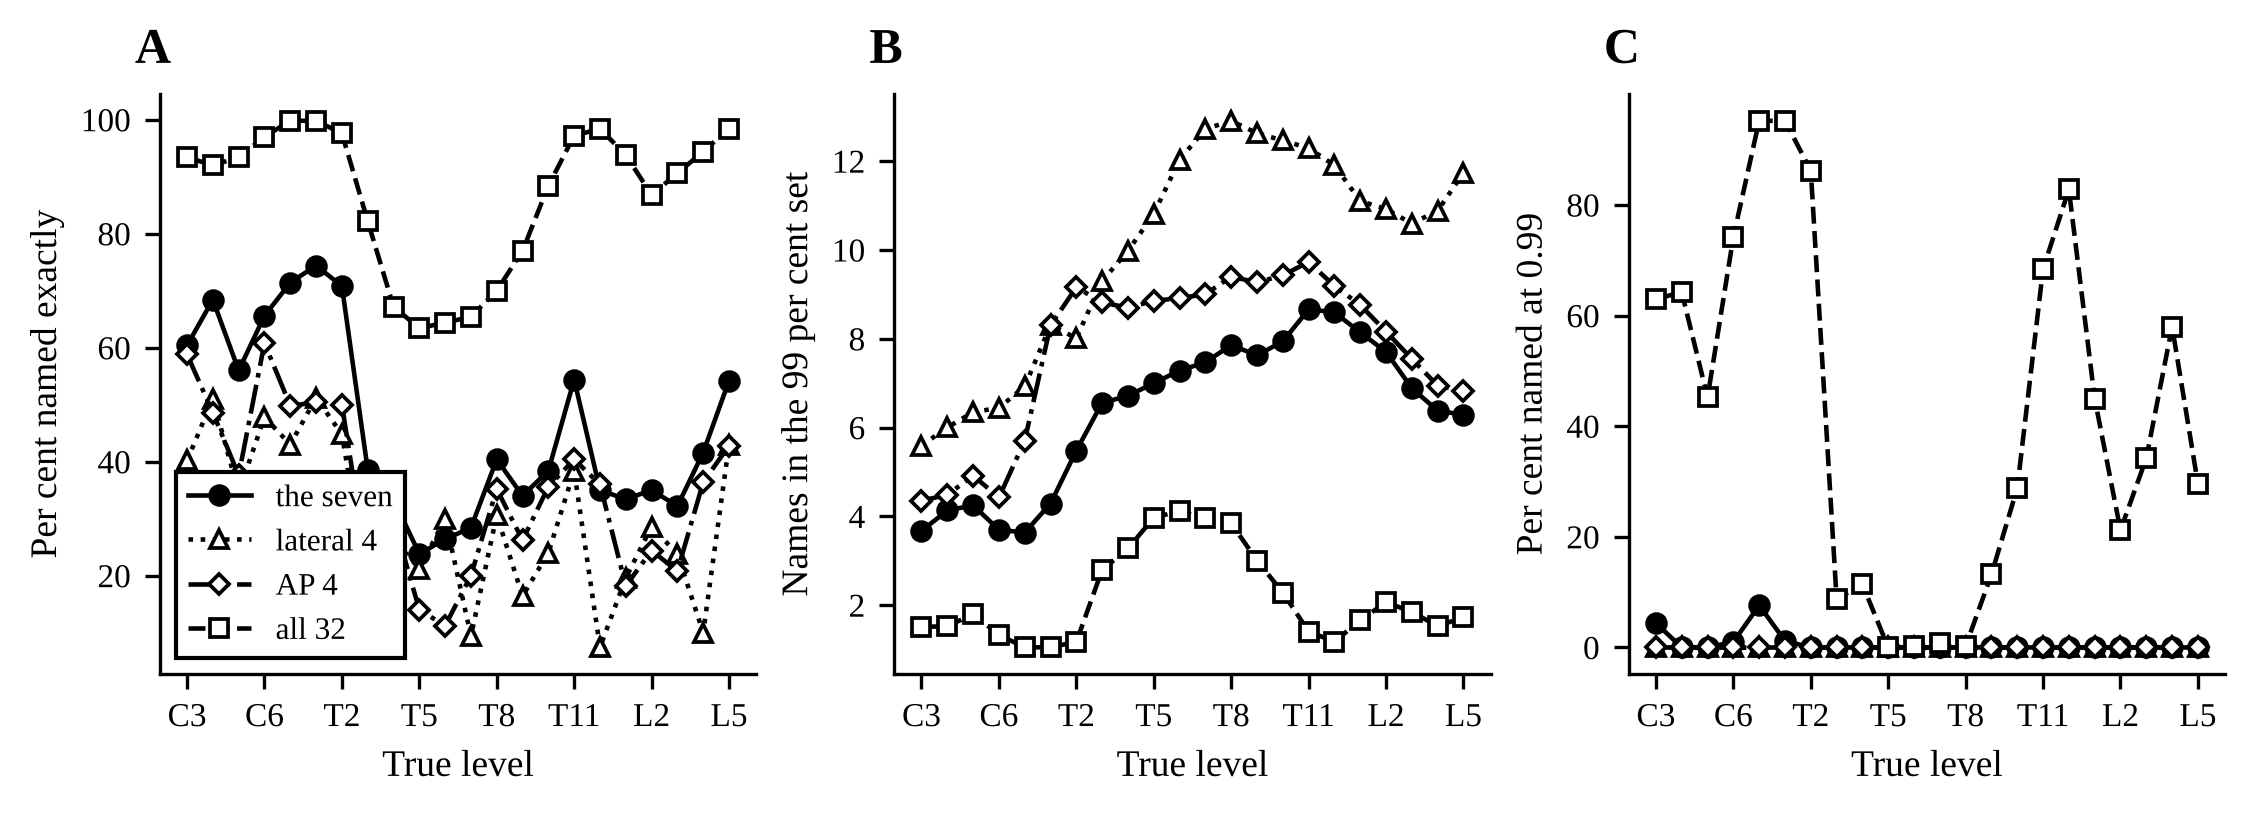
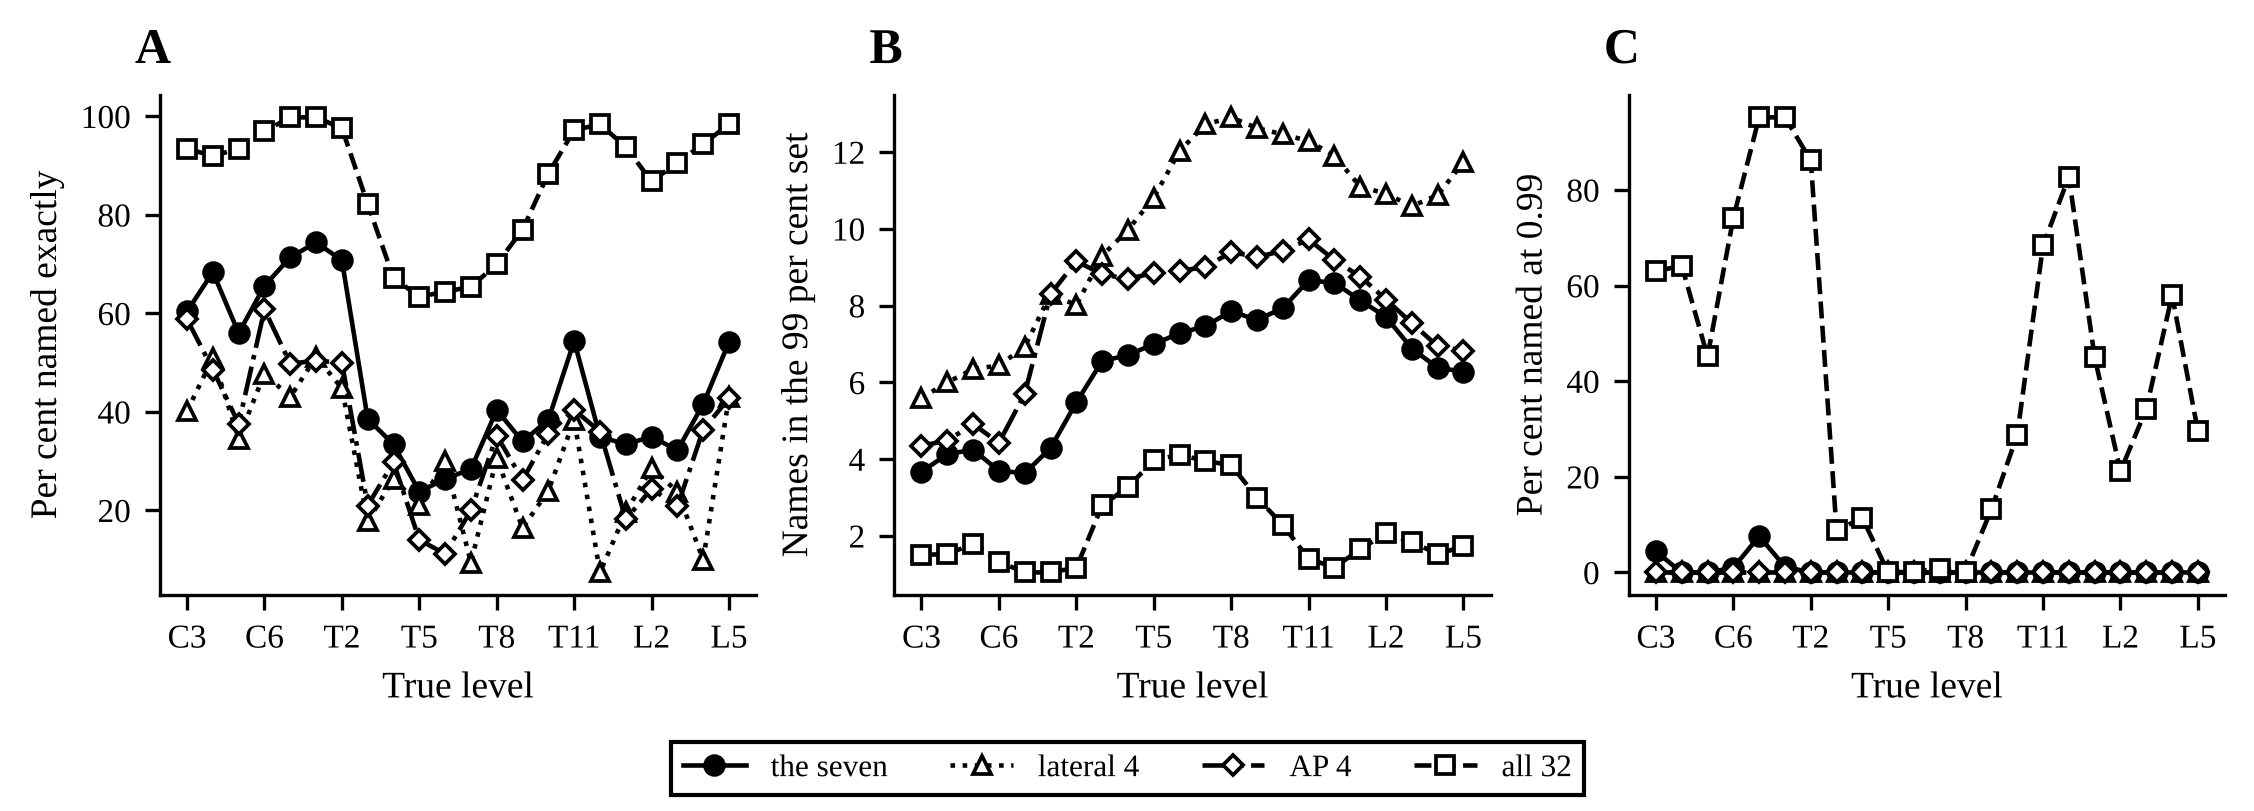
The one-vertebra record made again from the reviewed code, its figures redrawn, the README and TODO brought up to date
The record is made from commit 74dfa05, the review's fixes, in 6 minutes on
3 processes, which it now carries in its command and a field; its rows,
levels, claims and confusion counts are the first record's, made from
67e400e, number for number, so every number the README quotes stands and
`check` passes on the tables as they were. The levels and size figures are
redrawn with their legends outside the axes, and the curve record's
FIGURES.md carries curve.py's new hash. The README's Tests list gains the
evaluation's bullet, 29 tests, and TODO.md says where the evaluation landed.

Claude-Session: https://claude.ai/code/session_01LGjGkrqirqqwNkUQYrbj3h

diff --git a/schwingcheck/README.md b/schwingcheck/README.md
@@ -944,7 +944,7 @@ PYTHONPATH=. python schwingcheck/examples/lone_body_check.py   # how far a lone 
 
 **The coarse claims.** A lone body that cannot be named may still say on which side of a border it lies. Each of the coarse study's six claims (coarse/study.py) is the posterior mass on the names it holds, decided when that mass reaches 0.99 either way, as coarse.score_claims decides it. An L6 is below every border, and a T13, between T12 and L1, is below C7 and T5, not at or above T6, not below T12 nor below L2, and within T11 to L2.
 
-**The record.** one_body.json in [records/one-body-2026-10-29/](../records/one-body-2026-10-29/figures/FIGURES.md), with the command, the seeds, the machine, the versions, the digests and the git state taken when it began (`made_by`), was made from commit 67e400e on 29 October 2026, on a cloud machine with 4 CPUs in Python 3.12.3, its log evidence in 6 minutes on 3 processes while another job ran; nothing changed while it ran. The data axis at one body is chain_study's own record, axis.json, read at one body: its tables re-estimated from 12 to 2,000 people, on its 200 fields a cell ([The data axis at one body](#the-data-axis-at-one-body)).
+**The record.** one_body.json in [records/one-body-2026-10-29/](../records/one-body-2026-10-29/figures/FIGURES.md), with the command, the seeds, the machine, the versions, the digests and the git state taken when it began (`made_by`), was made from commit 74dfa05 on 29 October 2026, after the review's fixes, on a cloud machine with 4 CPUs in Python 3.12.3, its log evidence in 6 minutes on 3 processes (the command and a field of the record say so) with other work sharing the machine; nothing changed while it ran, and its rows, levels, claims and confusion counts are the first record's, made from 67e400e before the review, number for number. The data axis at one body is chain_study's own record, axis.json, read at one body: its tables re-estimated from 12 to 2,000 people, on its 200 fields a cell ([The data axis at one body](#the-data-axis-at-one-body)).
 
 Every number below comes from synthetic columns drawn from Panjabi's tables, where the generator is the truth; nothing here is a patient. As in the chain's study, the fields are drawn type by type, while the chain's posterior is calibrated over the mix its type weights describe.
 
@@ -1179,6 +1179,7 @@ The same, with the seven SPINEPS measures.
 - `test_schwingcheck_chain.py` (11): the chain's start and rows are laws, block diagonal by type, and its support paths every path of positive probability, summing to one; with one step and the typical type alone its prior is step d's and its posterior rule.name's within 1e-12; with uniform steps every fitting pattern and place is equally likely, counted by brute force; forward-backward equals enumeration; the extended table is the generator's to the bit; path_logev is a dense normal from scipy integrated on the same nodes, within 1e-9 on six paths of three bodies; the sum along the paths' shared beginnings is path_logev's within 1e-9, on whole fields and on fields with values not read, of every type, at 1, 3 and 5 bodies and two subsets of the seven at once; model (b)'s density given the size is the dense normal summed over the paths within 1e-10, model (a)'s its emissions enumerated given the offsets with a finite gradient, and recover() draws the middle body's level as often as the posterior says.
 - `test_schwingcheck_chain_study.py` (36): a name within one level is read on the half-step scale, so a T13 is within one of T12 and of L1 and an L6 of L5 alone; the data axis's tables are the build-up study's to the bit, and the printed table scores on the axis as `run` scores it; a quick run, axis and speed give every row, the main and axis tables read the rows they name, at one body the consecutive and the gaps rules are one rule, the weights' rows carry the papers' weights on the stated chain's fields and are the chain's posterior at those weights computed again, the claims and speed tables' cells are their rows', every table takes its labels from its record, each measure set is timed as a rule cut to it, and every record names the code it was made by; a quick `pymc` gives every row its table reads with each field's own within, holds each model to the cut rule's exact posterior on `run`'s fields and names pymc-extras' version; a field passes the naming test only where it passes all three of the naming model's NUTS test's checks, and a record that keeps no field's own within is read only where every field is within; a rule cut to the seven names as the rule for all 32 with the rest masked out, within 1e-12; the axis's rows are the same to the bit whatever order its jobs finish in; load_loops, first in a fresh process, leaves every pool at one thread while the speed's work runs inside the limit and compiles every layout the speed times, and without it a pool escapes the limit; `run`, `axis` on two processes, `speed` and `pymc`, each alone in a fresh process, record every pool at one thread, and each of the four fails when its command no longer compiles before the limit; `check` finds a table stale, missing, written twice, followed by rows of its own or by text with no blank line, or with no record, and records that do not read the same columns, fields a column and seeds; the committed records' tables are this README's, they hold 9 bodies, one commit, unchanged while they ran, made the four, they read the same fields, the speed timed each measure set on its own measures with every pool at one thread, and the PyMC record ran with every pool at one thread against chain.py's exact posteriors on `run`'s fields.
 - `test_schwingcheck_chain_figures.py` (7): the build-up study's figures and the chain's are drawn in one format, figures.py's; the chain's four figures drawn twice are the same files; every caption is under sixty words; each CSV holds the records' numbers, and a share right on fewer than 50 answers is not drawn; the committed figures' CSVs and captions are what the code as it stands draws from the committed records, to the byte, FIGURES.md names records and code by sha256, and this README shows each figure.
+- `test_schwingcheck_one_body.py` (29): the one-body rule is the chain at one body, its posterior over the names under every prior chain.logev's within 1e-12, a value not read among them, and with the typical prior step d's rule (rule.name) at one body, nothing on the L6 or the T13; the prior over the names sums to one and gives an L6 and a T13 nothing for the typical column; a prefix of the whole build-up order is all 32, and its first measure is rule.py's on that measure alone; the heights are centred on the specimens' mean with their spread and the sizes on the heights with the residual, keeping the generator's spread of size whole, each size rule takes the mean and SD it says, and each rule's nodes hold its prior's mean and spread where the height puts it; every body is a field of its own under its own name, each type is drawn at its patients' sizes, and a given size multiplies every length by its power; a coarse claim holds an L6 and a T13 by their places and C3 to L5 as the coarse study does, and its rates count what it says; a quick run makes every body of its columns a field and gives every row, level and claim its tables read, a row is its own rule scored afresh on its own fields (the size given, the first five of the order, a height rule, the papers' low weights, every type), its levels add up to their type's rows and its confusion counts to the levels, the typical rule never names an L6 or a T13, one cell of each table is its rows', `check` finds the README's tables and a changed one, the figures drawn twice are the same files, every caption is under sixty words and says the columns are synthetic, the CSVs hold the record's numbers, and the record names its code and the build-up order it read; the committed record's tables are this README's, it was made by committed code that did not change while it ran, its figures, images included, are byte for byte what the code draws from it, and the README shows each figure.
 
 ## What step e takes from here
 

diff --git a/TODO.md b/TODO.md
@@ -68,9 +68,9 @@ see how much gold tier 3 data i have, including checking this source, https://re
 updating chapter "4 The registry and the holding: every source by reach" list data by tiers,
 ```
 
-**Two of the queue came back on 28 October 2026.** At 23:03 UTC the owner wrote that the other accounts had not begun the one-vertebra evaluation and the fixed-k NUTS review ("no they havent"), and, not sure what they meant, left them to the owner's rule that an idk takes the option recommended; the coordinator gave both to the thread finishing the chain, to plan once pull request 23 merged. Each is a pull request of its own, on synthetic columns, with nothing on the grid, and neither is begun.
+**Two of the queue came back on 28 October 2026.** At 23:03 UTC the owner wrote that the other accounts had not begun the one-vertebra evaluation and the fixed-k NUTS review ("no they havent"), and, not sure what they meant, left them to the owner's rule that an idk takes the option recommended; the coordinator gave both to the thread finishing the chain, to plan once pull request 23 merged. Each is a pull request of its own, on synthetic columns, with nothing on the grid. The one-vertebra evaluation landed on 29 October 2026 as pull request 32 (schwingcheck/README.md, The one-vertebra evaluation; records/one-body-2026-10-29/); the fixed-k NUTS review follows in a pull request of its own.
 
-1. *The one-vertebra evaluation* ("evaluate the Panjabi synthetic data fully for 1-vertebra prediction"): what one body alone tells, as a C-arm shot that shows one vertebra would. One record at one body: for every true level, the share named exactly and within one level, the 99 per cent set's size, and the answers at 0.99 with how often they are right; which levels a lone body is taken for, as a confusion table; the seven, all 32, each view's measures and every prefix of the build-up study's order; the three column types through the chain at one body; the coarse answers a lone body can give where it cannot be named, its region and whether it is above or below T12 or T5, read from the same posterior, as the queue's coarse predictions ask; the data axis at one body; the type weights at one body, where pull request 23 found the papers' weights move the chain's answers most; and a known height, the first covariate. Line graphs in the house format (schwingcheck/figures.py).
+1. *The one-vertebra evaluation* ("evaluate the Panjabi synthetic data fully for 1-vertebra prediction"): what one body alone tells, as a C-arm shot that shows one vertebra would. One record at one body: for every true level, the share named exactly and within one level, the 99 per cent set's size, and the answers at 0.99 with how often they are right; which levels a lone body is taken for, as a confusion table; the seven, all 32, each view's measures and every prefix of the build-up study's order; the three column types through the chain at one body; the coarse answers a lone body can give where it cannot be named, its region and whether it is above or below T12 or T5, read from the same posterior, as the queue's coarse predictions ask; the data axis at one body; the type weights at one body, where pull request 23 found the papers' weights move the chain's answers most; and a known height, the first covariate. Line graphs in the house format (schwingcheck/figures.py). Done on 29 October 2026: schwingcheck/one_body.py, its record records/one-body-2026-10-29/ and the README's section The one-vertebra evaluation, reviewed by ten lenses and fixed, in pull request 32.
 2. *The fixed-k NUTS review* (the owner's prompt in the queue above): a written answer in its two parts, each claim backed by a run. The affirmation: fixing every body's level and sampling the size and the offsets with NUTS is the right way to check the continuous part of the model, shown with `az.plot_trace`, `az.summary(kind="stats")` and `az.plot_forest` on schwingcheck's fixed-level model against its closed form. The warnings: NUTS cannot move a discrete level, and a Metropolis step on it mixes badly between the narrow, separated places a field's posterior puts its weight on; an R-hat of 1.00 can sit beside a wrong posterior, as the build-up study found at 16 measures; so in production the level is summed out exactly, as rule.py, the naming model and the chain do, and given back afterwards through `recover()`. It also takes up why NUTS's far tail runs low (below 0.001 its estimate of a place runs low, schwingcheck/README.md, The naming model), with longer and more chains and the exact rule's weights at the sampled sizes, to tell the sampler's failure from the estimator's.
 
 **What is in now.** The reference table holds, for every level, the body table (upper and lower end-plate widths and depths, posterior body height), the canal table (width and depth) and the pedicle table (width and height, left and right). The rule uses the seven of these a SPINEPS mask can measure.

diff --git a/records/one-body-2026-10-29/figures/FIGURES.md b/records/one-body-2026-10-29/figures/FIGURES.md
@@ -2,9 +2,9 @@
 
 Built with `python -m schwingcheck.one_body figures --outdir records/one-body-2026-10-29/figures`.
 
-- Record: `records/one-body-2026-10-29/one_body.json`, sha256 137b70710176eef6886ca11bc3a318a9cb814c7d596786a55c6bce92dfef8a4d.
+- Record: `records/one-body-2026-10-29/one_body.json`, sha256 b36796daf74177e35f631ba5fefd447928e456dee1ae0d41c65c1524dd827603.
 - Code: `schwingcheck/figures.py`, sha256 3908d42cc8e93c839d8ddca5bf06591af281e1490d775483e20535a0908b0576.
-- Code: `schwingcheck/one_body.py`, sha256 c4970975d9e209102b2c1212d3ebc6f93658190eb324c8d0377d482d620d4b2b.
+- Code: `schwingcheck/one_body.py`, sha256 e7a86f5278a283a324d4a498ab274b9aa60b27a37a784bd9780180c1b4534a29.
 - Python 3.12.3, numpy 2.5.4, matplotlib 3.11.2; serif type Liberation Serif, embedded in the PDF.
 - The PDFs carry no creation date, so a rebuild with the same versions gives the same files; the CSVs beside them hold every number drawn.
 

diff --git a/records/curve-2026-10-28/figures/FIGURES.md b/records/curve-2026-10-28/figures/FIGURES.md
@@ -5,7 +5,7 @@ Built with `python -m schwingcheck curve figures --record records/curve-2026-10-
 - Record: `records/curve-2026-10-28/curve.nc`, sha256 c4d0cc979da8454609c19a2c7337c7eed1723d0a654c02cbe8536fd0f5167672.
 - Code: `schwingcheck/figures.py`, sha256 3908d42cc8e93c839d8ddca5bf06591af281e1490d775483e20535a0908b0576.
 - Code: `schwingcheck/curve_report.py`, sha256 f2200663f286e3a113a15c441e179a40d59a1a4384241ab63520c0d3f084cdd0.
-- Code: `schwingcheck/curve.py`, sha256 2c5c6e8373cab26bca14ff0aff3185971c2cde1a292b145d4b40da037965ab30.
+- Code: `schwingcheck/curve.py`, sha256 7c8cc875437c7540b3127d5d7b799b2c7e23c804837a99ab3a22f58432e1ee15.
 - Python 3.12.3, numpy 2.5.4, matplotlib 3.11.2; serif type Liberation Serif, embedded in the PDF.
 - The PDFs carry no creation date, so a rebuild with the same versions gives the same files; the CSVs beside them hold every number drawn.
 
